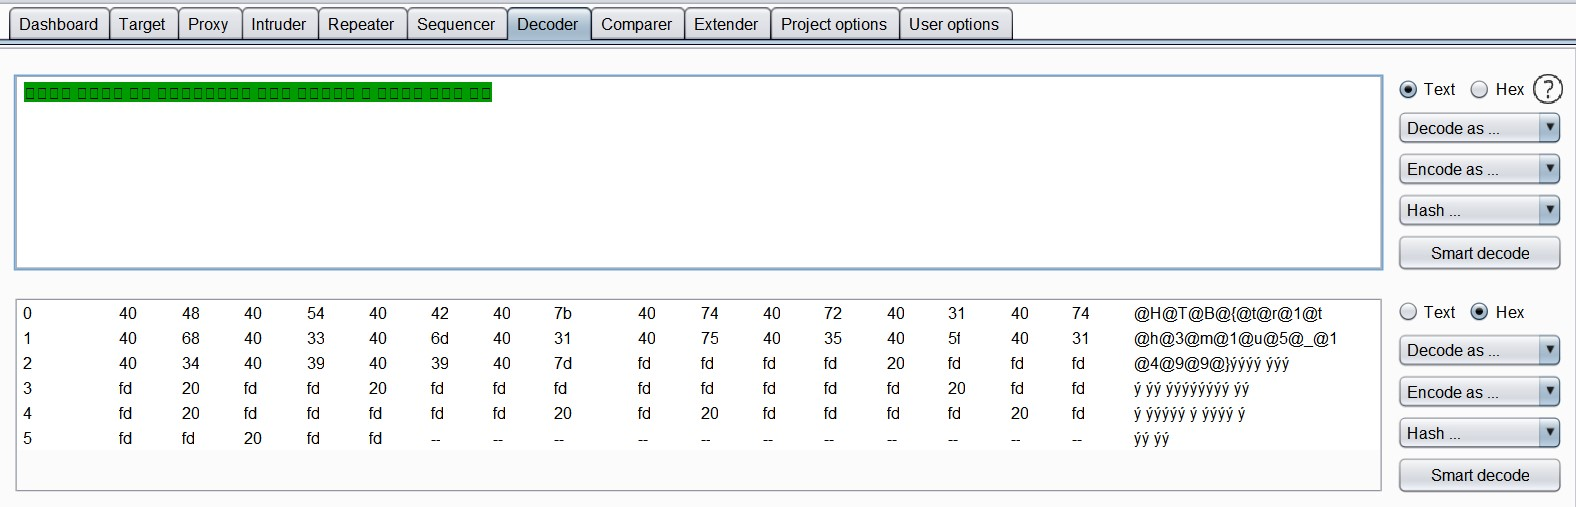
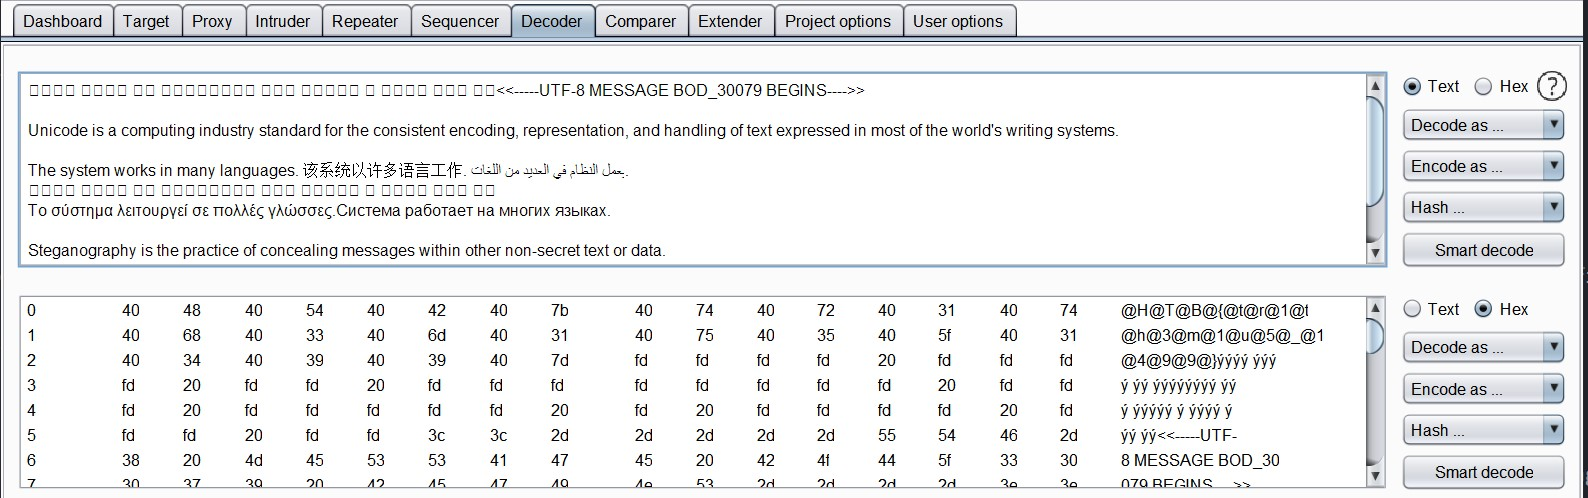
done

diff --git a/_posts/2019-08-11-Final-write-up.html b/_posts/2019-08-11-Final-write-up.html
@@ -1,7 +1,7 @@
 ---
 layout: post
 title: "Final Write-Up"
-subtitle: "Hacking Challenge"
+subtitle: "Hack the Box Challenge"
 date: 2019-08-10 20:15:34 -0800
 background: ''
 ---
@@ -148,4 +148,45 @@ background: ''
       Finally, submit the username and the value of the variable "keys_encrypt" as the flag, and it works.
       </p>
 
-    <h2 class="section-heading">Reverse Engineering</h2>
+    <h2 class="section-heading">Steganography</h2>
+
+    <p>
+      Steganography,is the practice of concealing messages within other non-secret text or data. The cover media may appear unremarkable at first glance and will require close investigation. For the third hackthebox challenge, I did the steganography challenge.
+      </p>
+      <img class="img-fluid" src="/img/posts/final/uni.JPG">
+      <span class="caption text-muted">Steganography Challenge</span>
+
+    <p>
+      The goal of this challenge is to find the hidden flag in a file that contain the text file, the content of the file as shown as the image below.
+      </p>
+
+      <img class="img-fluid" src="/img/posts/final/unified/encode.jpg">
+      <span class="caption text-muted">Challenge File</span>
+
+    <p>
+      As we can see, the file contain a message that pretented to be a global language message. There is a part of the string cnanot be displayed, but it is possible that the string is actually written in different languages that the unicode format just cannot read it.
+      I first trying to extract the hex value of the whole file, but still doe snot gives any clues or hint. However, for this challenge, we actually need an another tool that help us to solve the challenge. Which is called Burp Suite.
+      </p>
+
+    <p>
+      then we try to copy whole message to the Burp Suite decoder, then decode it, to see what will happen.
+      </p>
+
+      <img class="img-fluid" src="/img/posts/final/unified/decode.jpg">
+      <span class="caption text-muted">Decode String</span>
+
+      <img class="img-fluid" src="/img/posts/final/unified/decode_2.jpg">
+      <span class="caption text-muted">Decode String</span>
+
+    <p>
+      After we decode the string, we can see that there is a string looks very familiar, and yes, after delete all the symbol "@", we can get  actual flag : HTB{tr1th3m1u5_1499}. Submit, and we are done
+      </p>
+
+      <h2 class="section-heading">Conclusion</h2>
+
+    <p>
+      From these hackthebox challenge, we can see to getting comfortable with the security area, we need to learn to use different tools, need to understand what the original author really wants and sovled things that from their perspetives.
+      </p>
+
+      <img class="img-fluid" src="/img/posts/final/profile.JPG">
+      <span class="caption text-muted">Challenge Solved</span>
